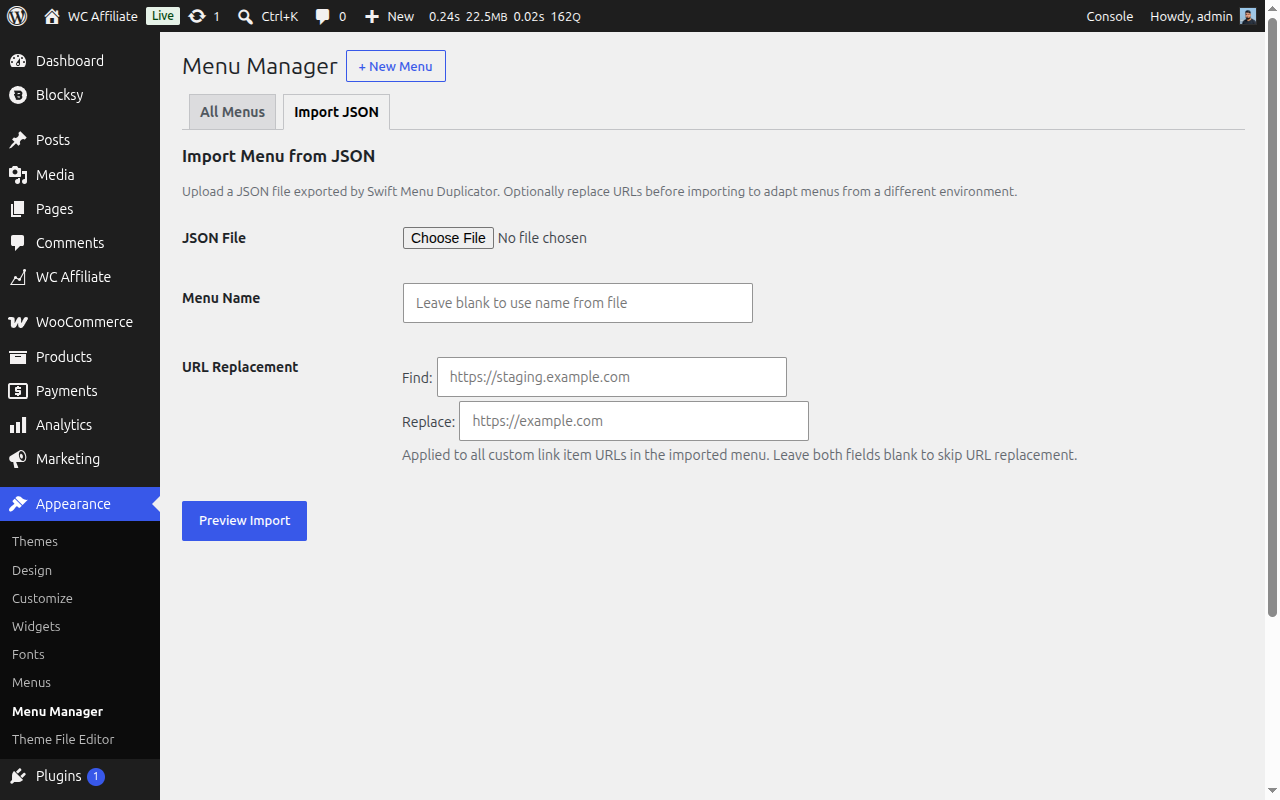
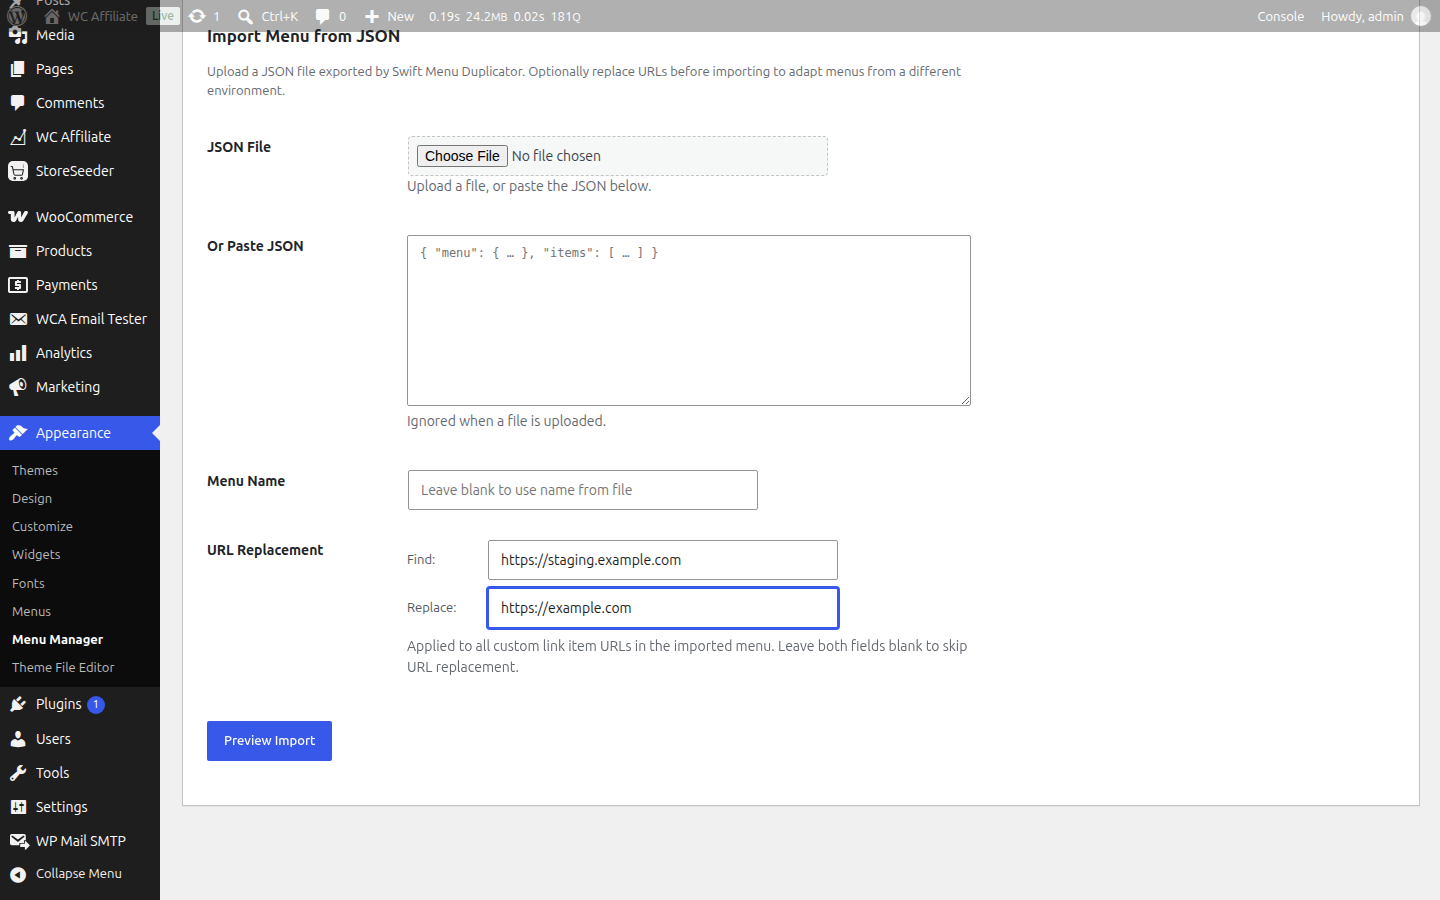
chore(release): 1.0.8 — new directory assets and captions
Regenerated icon, banners, and all five screenshots. The screenshots now show
the current interface — Menu Manager columns, the styled import screen, the
undo notice — rather than the pre-1.0.4 UI. readme.txt captions rewritten to
match, since they are positional.

BRAND.md rewritten around the new mark and the Playwright pipeline.

diff --git a/swift-menu-duplicator.php b/swift-menu-duplicator.php
@@ -17,7 +17,7 @@
  * Plugin Name:       Swift Menu Duplicator
  * Plugin URI:        https://github.com/mralaminahamed/swift-menu-duplicator
  * Description:       Duplicate menus and items, snapshot revisions, export/import JSON, bulk-manage menus, copy across multisite, automate via WP-CLI or REST.
- * Version:           1.0.7
+ * Version:           1.0.8
  * Author:            Al Amin Ahamed
  * Author URI:        https://github.com/mralaminahamed
  * License:           GPL-2.0-or-later
@@ -42,7 +42,7 @@ if ( ! defined( 'ABSPATH' ) ) {
 	exit;
 }
 
-define( 'SWIFT_MENU_DUPLICATOR_VERSION', '1.0.7' );
+define( 'SWIFT_MENU_DUPLICATOR_VERSION', '1.0.8' );
 define( 'SWIFT_MENU_DUPLICATOR_FILE', __FILE__ );
 define( 'SWIFT_MENU_DUPLICATOR_DIR', plugin_dir_path( __FILE__ ) );
 define( 'SWIFT_MENU_DUPLICATOR_URL', plugin_dir_url( __FILE__ ) );

diff --git a/.wordpress-org/BRAND.md b/.wordpress-org/BRAND.md
@@ -10,6 +10,17 @@ The WordPress.org plugin directory consumes the following files from this folder
 
 | File | Dimensions | Purpose | Source |
 |---|---|---|---|
+| `icon.svg` | vector | Canonical vector icon. WordPress.org consumes this directly when present. | Authored here (production master) |
+| `icon-256x256.png` | 256×256 | Directory hero icon (retina) | Rasterised from `icon.svg` |
+| `icon-128x128.png` | 128×128 | Directory thumbnail | Rasterised from `icon.svg` |
+| `banner-1544x500.png` | 1544×500 | Desktop directory banner (retina) | Rendered from `resources/brand/banner.html` |
+| `banner-772x250.png` | 772×250 | Mobile / non-retina banner | Rendered from the same markup at the narrow variant |
+| `screenshot-1.png` … `screenshot-5.png` | 1440×900 | Feature screenshots | Captured from a live admin |
+
+Everything in this folder is generated — see §6. `icon.svg` and
+`resources/brand/banner.html` are the only files edited by hand.
+
+---|---|---|---|
 | `icon.svg` | vector | Canonical vector icon. WordPress.org plugin directory consumes this directly when available. | Authored in this folder (production master) |
 | `icon-256x256.png` | 256×256 | Directory hero icon (retina) | Rasterised from `icon.svg` |
 | `icon-128x128.png` | 128×128 | Directory thumbnail | Rasterised from `icon.svg` |
@@ -70,35 +81,56 @@ A single soft shadow is permitted on cards and the central icon stack: `0 3–10
 
 ## 3. Icon Construction
 
-The icon direction is **Brand Monogram — Twin Chevron**, locked in on 2026-05-22 and stored as `.wordpress-org/icon.svg`. It is the production master; do not author alternative icon directions in this folder.
-
-The icon carries two simultaneous semantic signals:
-
-1. **"Swift"** — the chevron is the universal fast-forward / forward-motion glyph; the doubled form reads as *speed*.
-2. **"Duplicate"** — the second chevron offset behind the first reinforces the duplication idea without needing any literal menu illustration.
+The icon direction is **Menu + Offset Copy**, locked in on 2026-08-03 and
+stored as `.wordpress-org/icon.svg`. It is the production master; do not
+author alternative icon directions in this folder.
 
 ### Why this direction was chosen
 
-The earlier *Hierarchy Clone* icon (a literal picture of a menu with a duplicate badge) was technically competent but strategically average — it told viewers what the plugin did but did not establish a *brand*. Comparing against the leading WordPress plugins (Yoast, Elementor, Duplicator), every top-tier plugin uses an *abstract brand mark* rather than a UI illustration. The Twin Chevron follows that pattern: it works as a logo on a sticker, a slide deck, a marketing site, or a favicon — not just inside the WordPress plugin directory listing. It also ages cleanly because it does not depend on current WordPress admin styling.
+The mark combines the two glyphs its audience already knows:
+
+1. **Three stacked bars on a card** — the menu idiom. Every WordPress user
+   reads it as "a navigation menu" without being taught.
+2. **A second card offset behind it** — the copy idiom every desktop operating
+   system uses for duplicate.
+
+Together they state the plugin's promise in one shape: *this menu, and a copy
+of it*. The previous direction (Twin Chevron) was a competent abstract mark,
+but it communicated "fast" and nothing else — neither *menu* nor *duplicate*
+was legible in it, so the icon carried no meaning a first-time browser of the
+directory could decode. Icon guidance is consistent on this point: if the
+symbolic association does not land within about five seconds, the link between
+word, action, and symbol is too weak to be worth the abstraction.
+
+The trade is deliberate. This mark is less "logo-like" than a monogram, but a
+plugin icon is not a company logo — it is a wayfinding device in a grid of
+several thousand competitors, and legibility beats abstraction there.
 
 ### Construction rules
 
-- **Squircle background**: 56px corner radius on the 256px master (22% of the canvas).
-- **Background gradient**: deep indigo `#1E1B4B` → near-black `#0B1220`, top-left to bottom-right.
-- **Front chevron**: stroked V, path `M 104 64 L 184 128 L 104 192`. Stroke width 36px. Round caps and joins. Gradient cyan `#22D3EE` → sky `#0EA5E9`. This is the primary mark.
-- **Back chevron**: same shape scaled to ~83%, path `M 72 84 L 132 128 L 72 172`. Stroke width 32px. Same round caps. Indigo gradient `#3B82F6` → `#1E40AF`. Opacity 0.55. Offset up-left of the front chevron.
-- **Shadow**: single soft shadow at opacity 0.4, 3px blur, 3px Y-offset. No glow, no inner shadow.
-- **Negative space**: the front chevron's apex must not sit closer than 30px to the right edge of the squircle; the open mouth of the chevron must not sit closer than 40px to the left edge. These margins keep the mark legible at 32px.
+Built entirely from rounded rectangles, so it survives every size it will be
+seen at — 256px in the directory hero, 128px in the listing grid, 32px in the
+Plugins screen, 16px in a browser tab.
 
-Changes to any of the above values require updating both the SVG and this rule list — the document is the contract.
-
----
+- **Background**: squircle, radius 56px at 256 (22% of the canvas), vertical
+  gradient `#0F172A` → `#0B1220`.
+- **Back card**: `x=96 y=52 w=108 h=132 r=16`, diagonal gradient `#3B82F6` →
+  `#1E40AF` at 55% opacity. It reads as *behind*, never as a second subject.
+- **Front card**: `x=52 y=72 w=124 h=132 r=18`, solid `#FFFFFF`. Pure white,
+  not tinted — the contrast against the dark ground is what makes the mark
+  visible at 32px.
+- **Menu bars**: three rounded bars, 14px tall, `r=7`, at `y=104 / 132 / 160`,
+  widths `80 / 56 / 80`, horizontal gradient `#22D3EE` → `#0EA5E9`. The short
+  middle bar is load-bearing: with three equal bars the shape reads as a
+  document, not a menu.
+- **Negative space**: no element may sit closer than 40px to the squircle edge
+  at the 256 master.
 
 ## 4. Banner Composition
 
 Both banner variants — 1544×500 and 772×250 — use the **same brand-forward composition**. They share the 3.088:1 aspect ratio (the mobile is geometrically a 50% scale of the desktop) and the same four-element arrangement:
 
-1. **Oversized Twin Chevron mark** (left, bleeding slightly off the top and bottom edges — treated as a hero brand object, not a small decorative icon)
+1. **Wordmark block** (left): plugin name, one-line tagline, and a row of capability pills. Held to 66% of the canvas width so it never collides with the visual.
 2. **Atmospheric glow** centred on the mark's visual centre — two concentric circles in cyan and indigo at low opacity
 3. **Two-line wordmark + cyan accent rule + single tagline** (right of the mark)
 4. **Credibility strip** along the bottom edge
@@ -120,9 +152,9 @@ The two banners are derived from a single specification. Every value is expresse
 | Glow inner | `r: 220` (44% of H), fill blue, opacity 0.10 | `r: 110` (same %), same fill / opacity | Proportional radius, fixed opacity |
 | Mark anchor | `translate(120, -10)` (7.8% W, -2% H) | `translate(60, -5)` (same %) | Mark vertical bleed proportional |
 | Mark visual height | ~328px (~66% of H) | ~164px (~66% of H) | Constant percentage of canvas height |
-| Front chevron stroke | 72 | 36 | 50% scale |
-| Back chevron stroke | 64 | 32 | 50% scale |
-| Back chevron opacity | 0.55 | 0.55 | Fixed across both |
+| Card width | 210 | 105 | 50% scale |
+| Card height | 262 | 131 | 50% scale |
+| Back card opacity | 0.5 | 0.5 | Fixed across both |
 | Wordmark anchor x | 720 (46.6% of W) | 360 (46.6% of W) | Same proportion |
 | Wordmark anchor y | 178 (35.6% of H) | 89 (35.6% of H) | Same proportion |
 | Wordmark font size | 86 | 43 | 50% scale |
@@ -201,56 +233,50 @@ The plugin code ZIP is a separate concern: `/.wordpress-org/` is already exclude
 
 ---
 
-## 6. Building the Production PNGs
+## 6. Building the Assets
 
-A POSIX shell script lives at `bin/build-brand-assets.sh`. It prefers `rsvg-convert` (lightweight, accurate) and falls back to `inkscape --export-type=png` if the former is not installed.
-
-### 6.1 Local prerequisites (macOS, Homebrew)
-
-```sh
-brew install librsvg     # provides rsvg-convert
-brew install oxipng      # optional, lossless PNG optimisation
-```
-
-### 6.2 Running the build
+Everything in this folder is produced by Playwright, driving a Chrome that is
+already installed — nothing to rasterise by hand, and no ImageMagick or
+librsvg dependency. The two commands are independent: the brand assets need
+no running site, the screenshots need a logged-in one.
 
 ```sh
-cd /path/to/swift-menu-duplicator
-bash bin/build-brand-assets.sh
+yarn install
+
+# icon-*.png and banner-*.png — renders local markup only
+yarn assets:brand
+
+# screenshot-*.png — drives a real WordPress admin
+WP_LOGIN_URL="$(wp login create admin --url-only)" yarn assets:shots
 ```
 
-The script:
+### 6.1 How it is wired
 
-1. Validates that all four SVG masters exist.
-2. Rasterises each at the exact pixel dimensions required by the WordPress.org plugin directory.
-3. Validates output dimensions with ImageMagick `identify` (or `file`, as a fallback).
-4. Runs `oxipng -o 4 --strip safe` on each output when `oxipng` is available — typically halves file size with no visual loss.
-5. Reports the final byte sizes and warns if any output exceeds 250 KB (the soft cap for a polite WP.org listing).
+| File | Role |
+|---|---|
+| `playwright.config.ts` | Base config: `WP_BASE_URL`, self-signed certs tolerated |
+| `playwright.wporg-shots.config.ts` | The `brand` and `shots` projects, viewport pinned to 1440×900 |
+| `tests/e2e/auth.setup.ts` | Signs in once, stores the session for `shots` |
+| `tests/e2e/assets/wporg-brand.spec.ts` | Icon PNGs from `icon.svg`; banners from `resources/brand/banner.html` |
+| `tests/e2e/assets/wporg-shots.spec.ts` | The five listing screenshots |
 
-### 6.3 GitHub Actions integration
+`channel: 'chrome'` is deliberate: it uses the installed browser instead of
+requiring `playwright install`, so the pipeline works on a laptop that
+already has Chrome.
 
-Add the following job to the existing release workflow (between `lint` and the SVN deploy step):
+### 6.2 Authentication
 
-```yaml
-build-brand-assets:
-  runs-on: ubuntu-latest
-  needs: lint
-  steps:
-    - uses: actions/checkout@v6
-    - name: Install rasterisation tooling
-      run: sudo apt-get update && sudo apt-get install -y librsvg2-bin oxipng
-    - name: Build brand assets
-      run: bash bin/build-brand-assets.sh
-    - name: Upload brand assets
-      uses: actions/upload-artifact@v7
-      with:
-        name: brand-assets
-        path: .wordpress-org/*.png
-```
+`auth.setup.ts` takes either a one-time magic link (`WP_LOGIN_URL`, e.g. from
+`wp login create <user> --url-only`) or `WP_ADMIN_USER` + `WP_ADMIN_PASS`. No
+credential is ever written to the repository; the session lands in
+`tests/e2e/.auth/`, which is git-ignored.
 
-The SVN deploy job should download the `brand-assets` artifact and copy the PNGs into the SVN `assets/` directory before commit.
+### 6.3 Regenerating after a UI change
 
----
+Any change to the Menu Manager, the snapshot panel, or the import screen
+invalidates the screenshots. Re-run `yarn assets:shots` and commit whatever
+changed — the captions in `readme.txt` are positional, so if a shot is added
+or removed the list there has to move with it.
 
 ## 7. Screenshot Standards
 
@@ -283,6 +309,7 @@ The following are explicitly outside the system. Reject any contribution that in
 
 | Date | Change | Author |
 |---|---|---|
+| 2026-08-03 | Icon redirected to **Menu + Offset Copy**. The Twin Chevron read as "fast" but carried neither *menu* nor *duplicate*, so it told a directory browser nothing about the plugin. The new mark composes the two idioms its audience already knows — stacked bars for a menu, an offset card for a copy — and is built from primitives so it holds together down to 16px. Banners rebuilt around a wordmark block plus a single card-stack visual, rendered from HTML rather than hand-authored SVG. Asset pipeline moved to Playwright (see §6); the PHP/Imagick generators and the rejected concept drafts were removed. | Al Amin Ahamed |
 | 2026-05-22 | Initial brand system. Replaced misleading orange `+` icon with Hierarchy Clone direction. Banner restructured around proof (faux Menu Manager UI fragment) rather than feature-name pills. | Al Amin Ahamed |
 | 2026-05-22 | Added `bin/stage-wp-org-assets.sh` and wired it into both SVN workflows (`svn-readme-assets-update.yml`, `svn-deploy.yml`) so design drafts (`*.draft.svg`) and internal docs (`BRAND.md`) never reach WordPress.org SVN. | Al Amin Ahamed |
 | 2026-05-22 | Unified banner composition. Rebuilt the mobile banner to mirror the desktop layout (wordmark + tagline + lead pill + faux Menu Manager fragment + credibility strip) with size-tuned adaptations. The two banner files are now a paired set. | Al Amin Ahamed |
